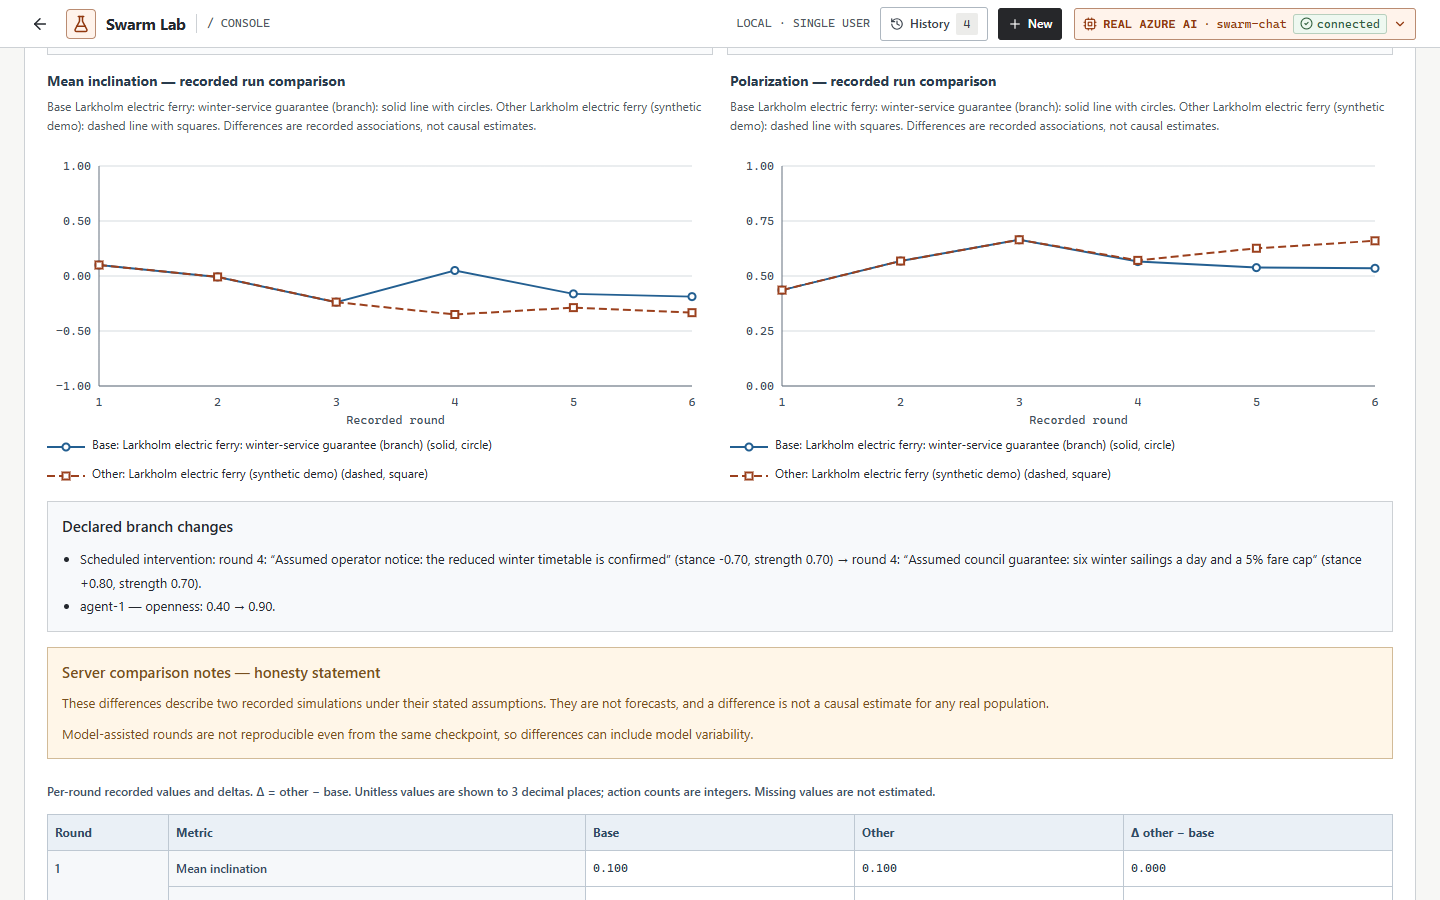
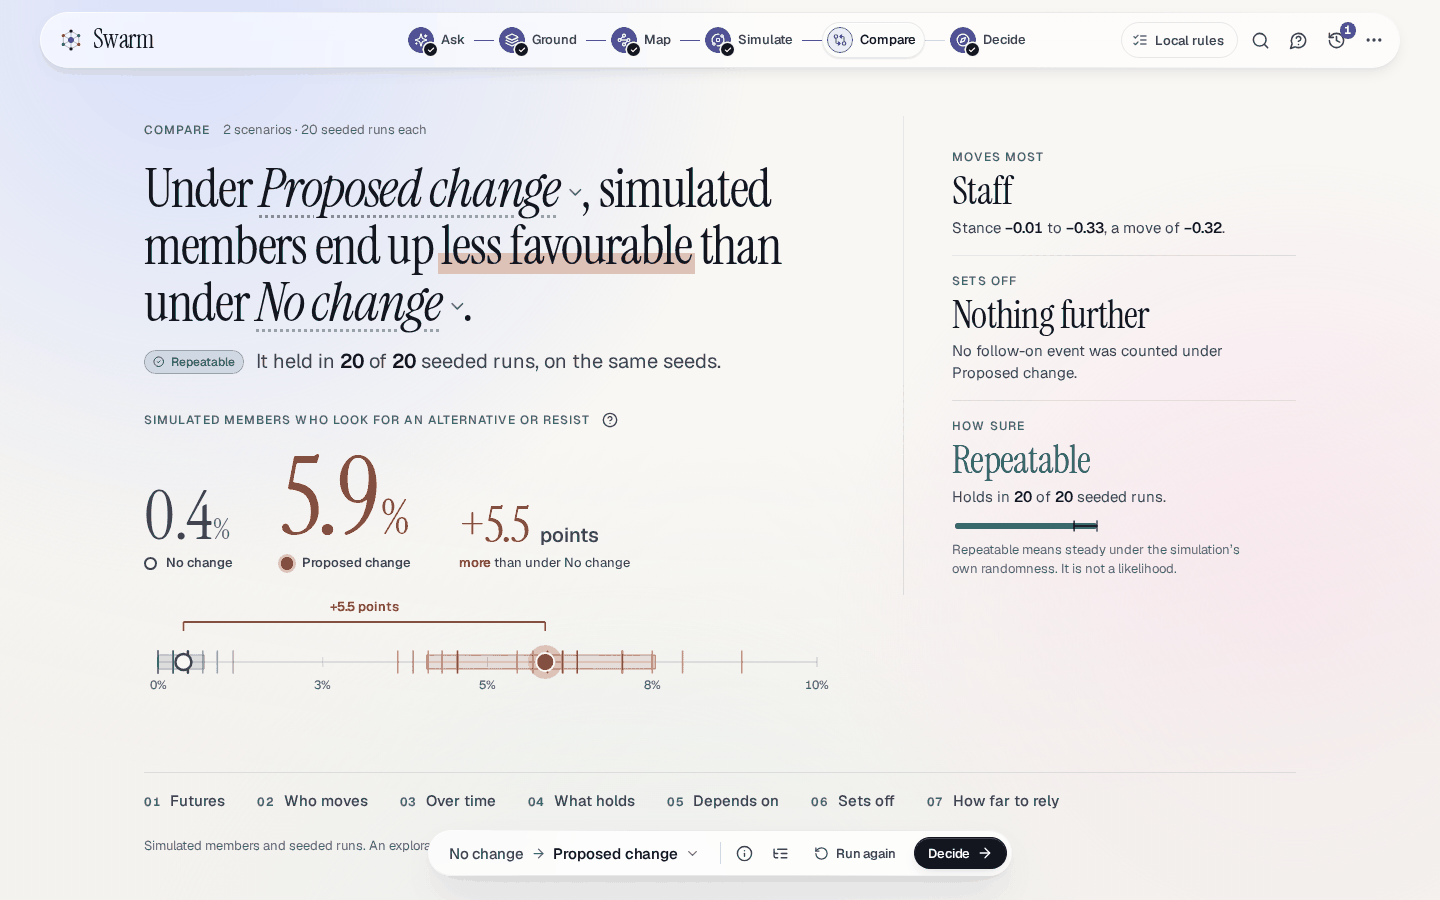
docs: screenshots of the redesigned product, taken from the real application
Ten pictures of the new interface (Ask, Ground, Map, Simulate live and network, Compare, Decide, the Studio with a
written report, a phone, the dark theme) replace the seven of the old one, optimised under the README's size cap.
The generator writes the detailed report and opens it before the Studio picture, and can take pictures one at a
time (DOCS_ONLY).

Copilot-Session: c2705960-d22d-4f1a-bf86-e5a427189aea

diff --git a/README.md b/README.md
@@ -190,7 +190,7 @@ held across the seeded runs._
 _Decide. The brief opens on its answer. The critics' review sits beside it, and the chapters of reference
 stay closed until they are opened._
 
-![Report Studio: a section of the report as a page to edit, with its version, its statements and the review workflow](./docs/assets/swarm-studio.png)
+![Report Studio: the chapters of the report in a list, one section as a page to edit with its version, a column of notes, and the review steps (Draft, In review, Approved) along the top](./docs/assets/swarm-studio.png)
 
 _Report Studio. A person works on a copy of the generated report: every change is a version, and a
 reviewer approves the exact text._

diff --git a/docs/USER_GUIDE.md b/docs/USER_GUIDE.md
@@ -715,7 +715,7 @@ does not predict the future.
 
 ## Report Studio
 
-![Report Studio: a section of the report as a page to edit, with its version, its statements and the review workflow](./assets/swarm-studio.png)
+![Report Studio: the chapters of the report in a list, one section as a page to edit with its version, a column of notes, and the review steps (Draft, In review, Approved) along the top](./assets/swarm-studio.png)
 
 Report Studio is where a person works on the detailed report that was generated: it makes a copy, called the
 _document_, and the generated report itself is never changed. The design and its limits are in
